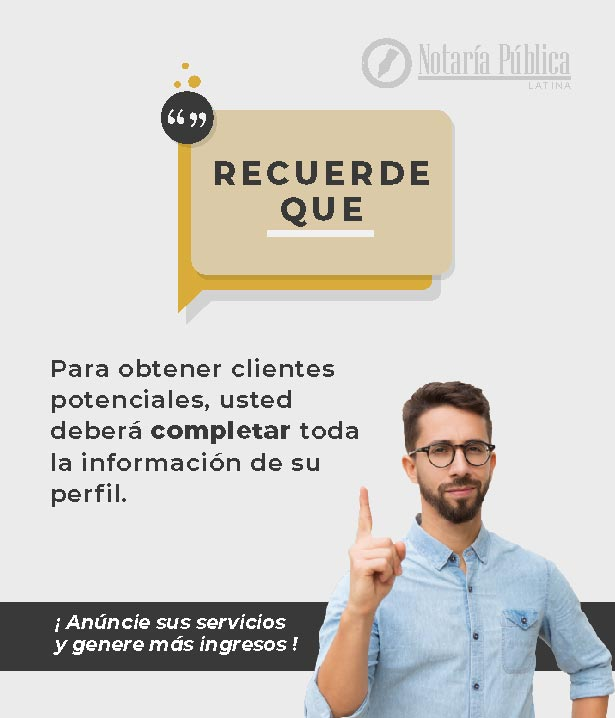
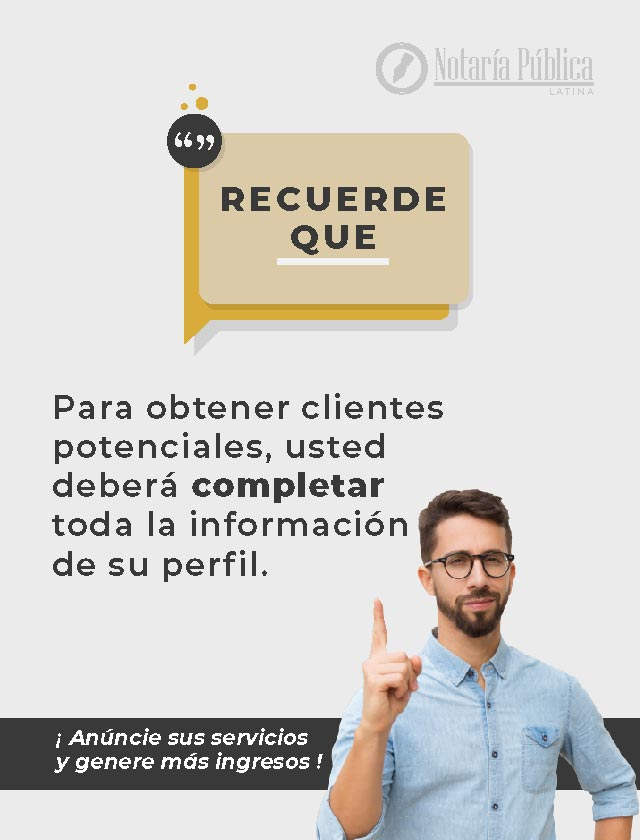
Agregando imagen diferente en pc y movil

Changed region(s): [[0.0, 0.0919, 1.0, 0.9805], [0.587, 0.0306, 0.9268, 0.1226], [0.5561, 0.9805, 0.587, 1.0]]

diff --git a/resources/views/admin/partner/edit.blade.php b/resources/views/admin/partner/edit.blade.php
@@ -18,7 +18,7 @@
         input, label{
             font-size: 14px;
         }
-        @media screen and (max-width: 580px){
+        @media screen and (max-width: 850px){
             #txtTercero{
                 display: none !important;
             }
@@ -41,6 +41,9 @@
             }
             #txtMaxMinChar{
                 font-size: 10px !important;
+            }
+            #modalBienvenido .modal-dialog{
+                width: 96% !important;
             }
         }
         .modal-dialog{
@@ -346,16 +349,17 @@
     </script>
     @endif
 
-    <div class="modal" id="modalBienvenido" tabindex="-1" role="dialog" aria-labelledby="exampleModalCenterTitle" aria-hidden="true">
-        <div class="modal-dialog modal-dialog-centered" role="document">
+    <div class="modal fade" id="modalBienvenido" tabindex="-1" role="dialog" aria-labelledby="exampleModalCenterTitle" aria-hidden="true">
+        <div class="modal-dialog modal-dialog-centered modal-lg" role="document" style="width: 45%">
             <div class="modal-content">
-                <div class="modal-header">
-                    <h6 class="modal-title" id="exampleModalLongTitle"><b>¡Felicidades!</b> Esta a tan solo un paso de publicar su perfil. <b>Complete su información</b>  y podrá ser anunciado <b>GRATIS</b> en nuestro sitio web</h6>
+                <div class="modal-header text-center" style="display: inline; border-bottom: none; margin-bottom: 0px;">
+                    <h5><b>¡ Felicidades !</b></h5>
+                    <p>Está a un solo paso para publicar <br> su perfil GRATIS</p>
                 </div>
-                <div class="modal-body d-flex justify-content-center">
-                  <img class="img-fluid" src="{{ asset('img/partners/bienvenida.jpg') }}" alt="Partners de Notaria Latina">
+                <div class="modal-body d-flex justify-content-center" style="border-bottom: none; margin-top: -30px">
+                  <img id="imgWelcome" class="img-fluid" src="" alt="Partners de Notaria Latina">
               </div>
-              <div class="modal-footer justify-content-center">
+              <div class="modal-footer justify-content-center" style="border-top: none;">
                 <button type="button" class="btn btn-primary" style="background-color: #002542; color: #ffffff" onclick="$('#modalBienvenido').modal('hide')">Continuar</button>
               </div>
             </div>
@@ -619,6 +623,7 @@
             countChars();
             showInputNameCompany();
             comprobar();
+            setSrcImageWelcome();
         });
 
         document.addEventListener("DOMContentLoaded", function(event) {
@@ -686,6 +691,15 @@
             } else{  
                 document.getElementById('btnActualizar').disabled = true;
             }     
+        }
+
+        function setSrcImageWelcome() {
+            var screenWidth = screen.width;
+            if(screenWidth > 850){
+            document.getElementById("imgWelcome").src = "{{ asset('img/partners/bienvenida_pc.jpg') }}";
+            } else {
+            document.getElementById("imgWelcome").src = "{{ asset('img/partners/bienvenida.jpg') }}";
+            }
         }
 
     </script>
